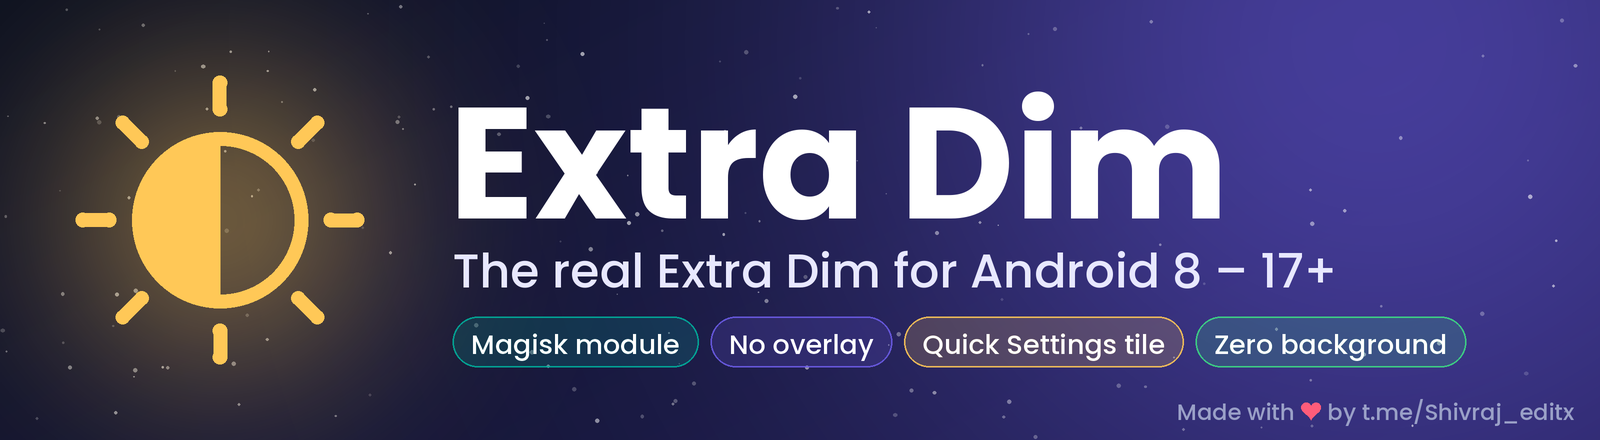
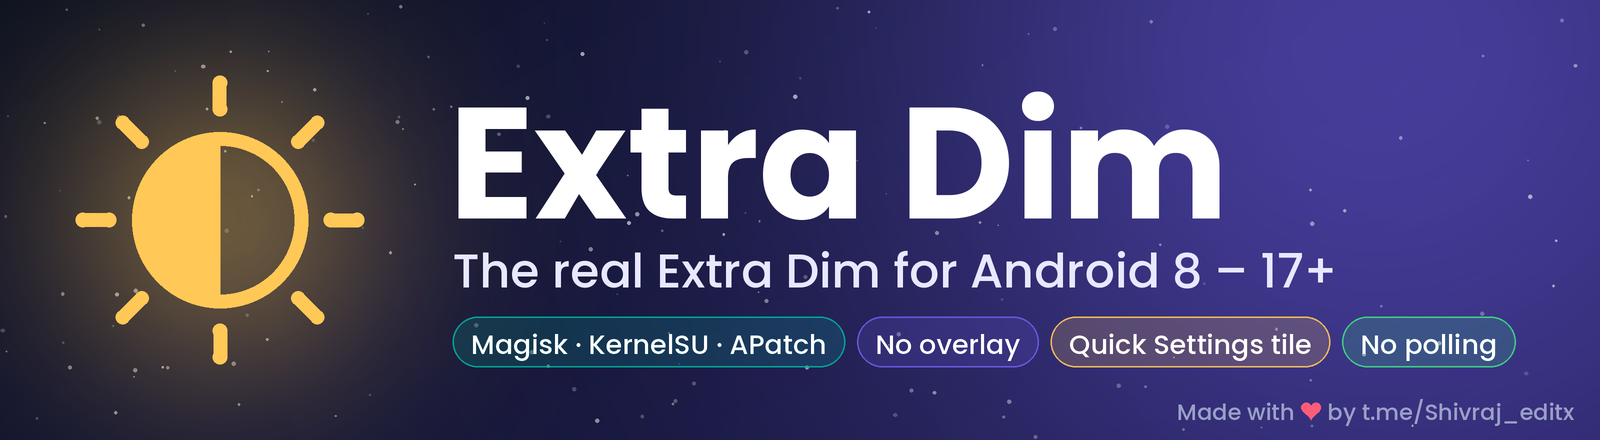
Extra Dim v3.1

Changed region(s): [[0.3438, 0.7091, 0.9688, 0.8568]]

diff --git a/app/src/com/extradim/tile/Root.java b/app/src/com/extradim/tile/Root.java
@@ -1,15 +1,63 @@
 package com.extradim.tile;
 
+import android.content.Context;
 import java.io.BufferedReader;
+import java.io.File;
+import java.io.FileOutputStream;
 import java.io.InputStreamReader;
 
-/** Runs the module's root helper through su. Blocking: call off the main thread. */
+/**
+ * Talks to the module's root helper, two ways, tried in this order:
+ *
+ * 1. Mailbox: write a one-line command into our own device-protected files folder. The module's
+ *    idle root listener runs it and deletes the file. No root grant is needed, so it behaves the
+ *    same under Magisk, KernelSU and APatch (those managers hide system apps in their root list).
+ * 2. su: classic "su -c". Needs a root grant. Only used when the listener is not running.
+ *
+ * Blocking: call off the main thread.
+ */
 final class Root {
     private static final String HELPER = "/data/adb/modules/extradim/system/bin/extradim";
+    private static final long MAILBOX_TIMEOUT_MS = 4000;
 
     private Root() { }
 
-    static String run(String args) {
+    /** Returns the helper's output when su was used, "" when the mailbox handled it, null on failure. */
+    static String run(Context ctx, String args) {
+        if (mailbox(ctx, args)) {
+            return "";
+        }
+        return su(args);
+    }
+
+    private static boolean mailbox(Context ctx, String args) {
+        try {
+            File dir = ctx.createDeviceProtectedStorageContext().getFilesDir();
+            if (!new File(dir, ".listener").exists()) {
+                return false;
+            }
+            File cmd = new File(dir, "cmd");
+            FileOutputStream out = new FileOutputStream(cmd);
+            try {
+                out.write((args + "\n").getBytes("UTF-8"));
+            } finally {
+                out.close();
+            }
+            long end = System.currentTimeMillis() + MAILBOX_TIMEOUT_MS;
+            while (cmd.exists() && System.currentTimeMillis() < end) {
+                Thread.sleep(40);
+            }
+            if (cmd.exists()) {
+                cmd.delete(); // nobody picked it up: don't let it run later
+                return false;
+            }
+            return true;
+        } catch (Exception e) {
+            return false;
+        }
+    }
+
+    private static String su(String args) {
         Process p = null;
         try {
             String cmd = "if [ -x " + HELPER + " ]; then " + HELPER + " " + args

diff --git a/app/src/com/extradim/tile/DimTileService.java b/app/src/com/extradim/tile/DimTileService.java
@@ -74,7 +74,7 @@ public class DimTileService extends TileService {
         new Thread(new Runnable() {
             @Override
             public void run() {
-                final String out = Root.run("toggle");
+                final String out = Root.run(getApplicationContext(), "toggle");
                 ui.post(new Runnable() {
                     @Override
                     public void run() {

diff --git a/app/src/com/extradim/tile/SettingsActivity.java b/app/src/com/extradim/tile/SettingsActivity.java
@@ -106,7 +106,7 @@ public class SettingsActivity extends Activity {
         new Thread(new Runnable() {
             @Override
             public void run() {
-                Root.run(args);
+                Root.run(getApplicationContext(), args);
             }
         }).start();
     }

diff --git a/README.md b/README.md
@@ -6,7 +6,7 @@
 
 [![Release](https://img.shields.io/github/v/release/shivrajtode/ExtraDim-Magisk?style=for-the-badge&color=FFC857&labelColor=1D1B4B&logo=github&logoColor=white)](https://github.com/shivrajtode/ExtraDim-Magisk/releases/latest)
 [![Android](https://img.shields.io/badge/Android-8%20%E2%86%92%2017%2B-3DDC84?style=for-the-badge&labelColor=1D1B4B&logo=android&logoColor=white)](#-compatibility)
-[![Magisk](https://img.shields.io/badge/Magisk-module-00AF9C?style=for-the-badge&labelColor=1D1B4B)](#-install)
+[![Root managers](https://img.shields.io/badge/Magisk%20%C2%B7%20KernelSU%20%C2%B7%20APatch-module-00AF9C?style=for-the-badge&labelColor=1D1B4B)](#-install)
 [![License](https://img.shields.io/github/license/shivrajtode/ExtraDim-Magisk?style=for-the-badge&color=6C5CE7&labelColor=1D1B4B)](LICENSE)
 [![Telegram](https://img.shields.io/badge/Telegram-Shivraj__editx-26A5E4?style=for-the-badge&labelColor=1D1B4B&logo=telegram&logoColor=white)](https://t.me/Shivraj_editx)
 
@@ -14,7 +14,7 @@
 
 Stock and custom ROMs that skipped Android 12's *Extra dim* (or never exposed it) get it back:<br>
 a proper **colour-matrix dim, not an overlay**, a **Quick Settings tile**, an **intensity slider**<br>
-and **nothing running in the background**.
+and **no root grant to fiddle with**.
 
 </div>
 
@@ -26,7 +26,8 @@ and **nothing running in the background**.
 |---|---|
 | 🎨 **Real dimming, not an overlay** | The same compositor-level colour matrix AOSP uses for Extra Dim and Night Light. No "draw over apps", no screen-overlay warnings. |
 | 🧩 **Tile + slider** | Tap to toggle, long-press for intensity (0–100) and *Keep on after restart*. |
-| 🔋 **Battery-aware** | `extradim check` tells you whether the dim stays on the display controller or falls back to the GPU. Nothing polls or wakes. |
+| 🔋 **Battery-aware** | `extradim check` tells you whether the dim stays on the display controller or falls back to the GPU. No polling: the only thing left running is one idle listener that wakes when you tap the tile. |
+| 🔑 **No root grant needed** | Magisk gets the grant automatically. On **KernelSU and APatch** (which hide system apps in their root list and have no command to grant root) the tile talks to the module's idle listener instead, so there is nothing to unhide or allow. |
 | ♻ **Restart = back to normal** | After any restart the dim is gone and the tile reads Off, unless you enable *Keep on after restart* (same as AOSP). |
 | 🧠 **Picks the right engine** | Android 12+ ROMs that really have Extra Dim get the native one; everything else gets the SurfaceFlinger engine. |
 | 🛡 **Systemless** | Nothing in framework or SystemUI is patched. The tile is a plain app shipped as a systemless system app. |
@@ -37,12 +38,12 @@ and **nothing running in the background**.
 
 ## 📲 Install
 
-1. Download **`ExtraDim-Magisk-<version>.zip`** from [Releases](https://github.com/shivrajtode/ExtraDim-Magisk/releases/latest).
-2. **Magisk → Modules → Install from storage**, pick the zip, reboot.
-3. After boot the **Extra dim** tile is added to Quick Settings (first boot only). Tap it once and grant root.
+1. Download **`ExtraDim-<version>.zip`** from [Releases](https://github.com/shivrajtode/ExtraDim-Magisk/releases/latest).
+2. **Magisk / KernelSU / APatch → Modules → Install from storage**, pick the zip, reboot.
+3. After boot the **Extra dim** tile is added to Quick Settings (first boot only). Tap it. That's it: no root prompt, nothing to enable under *show system apps*.
 
 > [!TIP]
-> Magisk → Superuser → *Extra dim* → Notification: **None** hides the "granted root" toast on every tap.
+> Don't want the idle listener? `touch /data/adb/extradim/no-listener` and reboot. The tile then falls back to `su`, which needs a root grant (automatic on Magisk, manual on KernelSU/APatch).
 
 > [!NOTE]
 > Already installed the tile app by hand? It keeps working (same package and signature). For a clean module-owned copy run `su -c 'pm uninstall com.extradim.tile'` and reboot.
@@ -82,7 +83,7 @@ Everything is also on the tile: **tap** = on/off, **long-press** = intensity sli
 > [!NOTE]
 > 🧪 means the logic is covered by automated simulation of each Android version but not yet confirmed on real hardware. Reports (working or not) are very welcome.
 
-**Android 12+ ROMs where Extra Dim is "not available":** the module never writes AOSP's `reduce_bright_colors_*` settings there (the framework hasn't set its colour transform up, so doing so could blank the screen). It uses the SurfaceFlinger engine and its own settings keys instead. The tile app must be **v1.1** for that; the zip published by `tools/publish.sh` already contains it, and when building from source run `bash tools/build.sh --app` once.
+**Android 12+ ROMs where Extra Dim is "not available":** the module never writes AOSP's `reduce_bright_colors_*` settings there (the framework hasn't set its colour transform up, so doing so could blank the screen). It uses the SurfaceFlinger engine and its own settings keys instead. The tile app must be **v1.1 or newer** for that; the zip published by `tools/publish.sh` already contains it, and when building from source run `bash tools/build.sh --app` once.
 
 ## 🔍 How it works
 
@@ -110,7 +111,8 @@ Android's own Extra Dim ends in one call: a colour matrix pushed to SurfaceFling
 > - **SurfaceFlinger engine:** Night Light, colour inversion and colour correction share the same matrix slot. Changing one replaces the dim until you toggle Extra Dim off and on. (The native engine on Android 12+ composes them properly.)
 > - Auto-brightness is not re-tuned for the dim (native Android 12+ does that).
 > - If `extradim check` says **WARNING**, your panel pipeline dims on the GPU: extra power, and DRM video may go black. AOSP hides Extra Dim on such devices for the same reason.
-> - Verified on Android 11 only so far (see the table above).
+> - The no-grant path needs `inotifyd` (busybox or toybox, which all three managers provide); without it the tile falls back to `su`.
+> - Verified on Android 11 with Magisk only so far (see the table above).
 
 ## ❓ FAQ
 
@@ -135,19 +137,19 @@ Not by default, same as AOSP. A restart always returns the screen to normal and 
 <details>
 <summary><b>Does it drain the battery?</b></summary>
 
-Nothing runs in the background. The only cost is how your display pipeline applies the matrix: run `su -c 'extradim check'`. If layers stay on the display controller there is no extra GPU work.
+Nothing polls. The module leaves one idle `inotifyd` listener that only wakes when the tile writes a command. The real cost is how your display pipeline applies the matrix: run `su -c 'extradim check'`. If layers stay on the display controller there is no extra GPU work.
 </details>
 
 <details>
 <summary><b>KernelSU / APatch?</b></summary>
 
-The module is a plain systemless module (a `system/` overlay and a `service.sh`), so it should work, but only Magisk has been used so far.
+They have no command to grant root to an app from a module (this is a [long-standing request](https://github.com/tiann/KernelSU/issues/1695)), and they hide system apps from their root list. So the tile doesn't use `su`: the module starts an idle `inotifyd` listener as root, and the app drops a one-line command into its own private folder, which a validating handler runs. It is a plain systemless module, so it is expected to work, but only Magisk has been used so far, so please report what you see.
 </details>
 
 ## 🛠 Build from source (Termux, no PC needed)
 
 ```sh
-bash tools/build.sh            # -> dist/ExtraDim-Magisk-<version>.zip
+bash tools/build.sh            # -> dist/ExtraDim-<version>.zip
 bash tools/build.sh --app      # rebuild the tile app from app/ first (needs the Termux build tools)
 sh app/build.sh --no-install   # only the APK -> ~/ExtraDimTile.apk
 bash tools/publish.sh          # build, push to GitHub and publish a release

diff --git a/docs/HOW-IT-WORKS.md b/docs/HOW-IT-WORKS.md
@@ -38,15 +38,27 @@ Two engines, picked automatically on every call:
 
 **State and restarts.** The helper keeps `/data/adb/extradim/state` and mirrors `extradim_on / _level / _persist / _boot` to the secure settings so the tile can read them without root. `Settings.Global boot_count` changes on every restart: a dim from an earlier boot reads as off immediately, unless *Keep on after restart* is set. Android 8–11 additionally mirror AOSP's key names for tile app v1.0.
 
-**Tile app.** A `TileService` plus a settings activity (`QS_TILE_PREFERENCES`). It only calls `su -c extradim …` on a tap or slider release. It ships as a systemless system app (module overlay, no `pm install`), and the boot script adds the tile to Quick Settings once with `cmd statusbar add-tile`.
+**Tile app.** A `TileService` plus a settings activity (`QS_TILE_PREFERENCES`). On a tap or slider release it sends one command to the helper (see section 4). It ships as a systemless system app (module overlay, no `pm install`), and the boot script adds the tile to Quick Settings once with `cmd statusbar add-tile`.
 
 **Battery check.** `extradim check` counts layers that SurfaceFlinger hands to the display controller (`DEVICE`) versus composes on the GPU (`CLIENT`) in `dumpsys SurfaceFlinger`, before and with the dim. It is a heuristic, not a guarantee.
 
-## 4. Not done (yet)
+## 4. Root access without a grant
+
+The tile app needs root to run the helper, but KernelSU and APatch have no command a module can use to grant root to an app, and they hide system apps in their root list (the tile app is a system app). So the module avoids needing a grant:
+
+1. `service.sh` starts one idle `inotifyd` on the app's private, device-protected folder (`/data/user_de/0/com.extradim.tile/files`) and drops a `.listener` marker there.
+2. The app writes a one-line command (`toggle`, `on 40`, `level 70`, `persist 1` ...) into `files/cmd`. Only that app can write there.
+3. `cmd-handler.sh` (root) validates the line against a whitelist of words and digits, runs the helper, and deletes `cmd`. The app waits for the file to disappear (4 s at most), then reads the new state from the secure settings.
+4. If the listener isn't running (no `inotifyd`, or opted out with `touch /data/adb/extradim/no-listener`), the app falls back to `su -c`.
+
+On **Magisk** the boot script additionally inserts a root grant for the app into Magisk's policy table (`magisk --sqlite`, policy `2` = allow, no toast), but only when the app has no entry yet, so a choice made in Magisk is never overridden.
+
+## 5. Not done (yet)
 
 - Composing with Night Light on the SurfaceFlinger engine (needs a `system_server` patch).
 - Re-tuning auto-brightness for the dim.
 - A config-overlay route for Android 12+ (flipping `config_setColorTransformAccelerated`). It is ROM-specific and only valid if the HWC really can offload the transform.
+- Confirming the no-grant path on real KernelSU and APatch devices.
 
 ## References
 
@@ -56,4 +68,6 @@ Two engines, picked automatically on every call:
 - SurfaceFlinger transaction 1015 in the Night Display commit: <https://android.googlesource.com/platform/frameworks/base/+/297e118%5E%21/>
 - SystemUI Quick Settings tile guide: <https://android.googlesource.com/platform/frameworks/base/+/49eed100b49e/packages/SystemUI/docs/qs-tiles.md>
 - Another module using the same SurfaceFlinger call on Android 11–14: <https://github.com/adivenxnataly/DisplayCalibration>
+- KernelSU request for granting root from the shell (still no official command): <https://github.com/tiann/KernelSU/issues/1695>
+- Magisk tools (`magisk --sqlite`): <https://magisk.readthedocs.io/en/latest/developers/tools.html>
 - Red Moon issue showing `service call SurfaceFlinger 1015` usage (and that a zero matrix blanks the screen): <https://github.com/LibreShift/red-moon/issues/150>

diff --git a/docs/RELEASE_NOTES.md b/docs/RELEASE_NOTES.md
@@ -1,14 +1,14 @@
-## Extra Dim v3.0: Android 8 → 17+
+## Extra Dim v3.1: root is automatic
 
 **What's new**
-- Works on **Android 8 – 17+** (was Android 10/11 only).
-- **Two engines, picked automatically:** Android 12+ ROMs that really have Extra Dim get the native one; everything else gets the SurfaceFlinger colour-matrix engine.
-- Tile app **v1.1**: reads the helper's own settings keys, so the tile shows the right state on every version.
-- Safer on Android 12+: AOSP's `reduce_bright_colors_*` settings are never written unless the framework reports the feature as available.
+- **No root grant to fiddle with.** Magisk grants the tile app root itself. On **KernelSU and APatch**, where system apps are hidden in the root list and modules can't grant root, the tile talks to a tiny idle listener the module starts, so you don't have to enable *show system apps* or allow anything.
+- Tile app **v1.2** (falls back to `su` if the listener isn't running).
+- Still **Android 8 → 17+**, two engines picked automatically (native Extra Dim on Android 12+ ROMs that really have it, SurfaceFlinger matrix everywhere else).
 
-**Install:** Magisk → Modules → Install from storage → reboot. The *Extra dim* tile is added to Quick Settings on first boot.
+**Install:** Magisk / KernelSU / APatch → Modules → Install from storage → reboot. The *Extra dim* tile is added to Quick Settings on first boot.
 **Check:** `su -c 'extradim test'` (3-second dim) and `su -c 'extradim check'` (battery check).
 
-Verified on Android 11. Other versions are covered by automated simulation; reports welcome.
+One idle `inotifyd` listener stays running (no polling). Opt out: `touch /data/adb/extradim/no-listener`.
+Verified on Android 11 with Magisk. KernelSU/APatch and other Android versions are expected to work; reports welcome.
 
 Made with ❤ by t.me/Shivraj_editx

diff --git a/CHANGELOG.md b/CHANGELOG.md
@@ -2,6 +2,15 @@
 
 All notable changes to this project. Made with ❤ by t.me/Shivraj_editx
 
+## [v3.1] - 2026-10-24
+### Added
+- **Root is automatic.** Magisk: the boot script grants the tile app root once (never overriding your choice). **KernelSU / APatch / Magisk:** an idle `inotifyd` listener lets the tile app send commands without any root grant, so nothing has to be unhidden under *show system apps*.
+- Tile app **v1.2**: sends commands through that listener, falling back to `su` when it isn't running.
+- Release zip is now named `ExtraDim-<version>.zip`.
+
+### Notes
+- The one idle listener replaces the old "nothing in the background" claim. It does no polling. Opt out with `touch /data/adb/extradim/no-listener`.
+
 ## [v3.0] - 2026-10-22
 ### Added
 - **Android 8 → 17+**: the module installs on API 26 and newer (previously Android 10/11 only).
